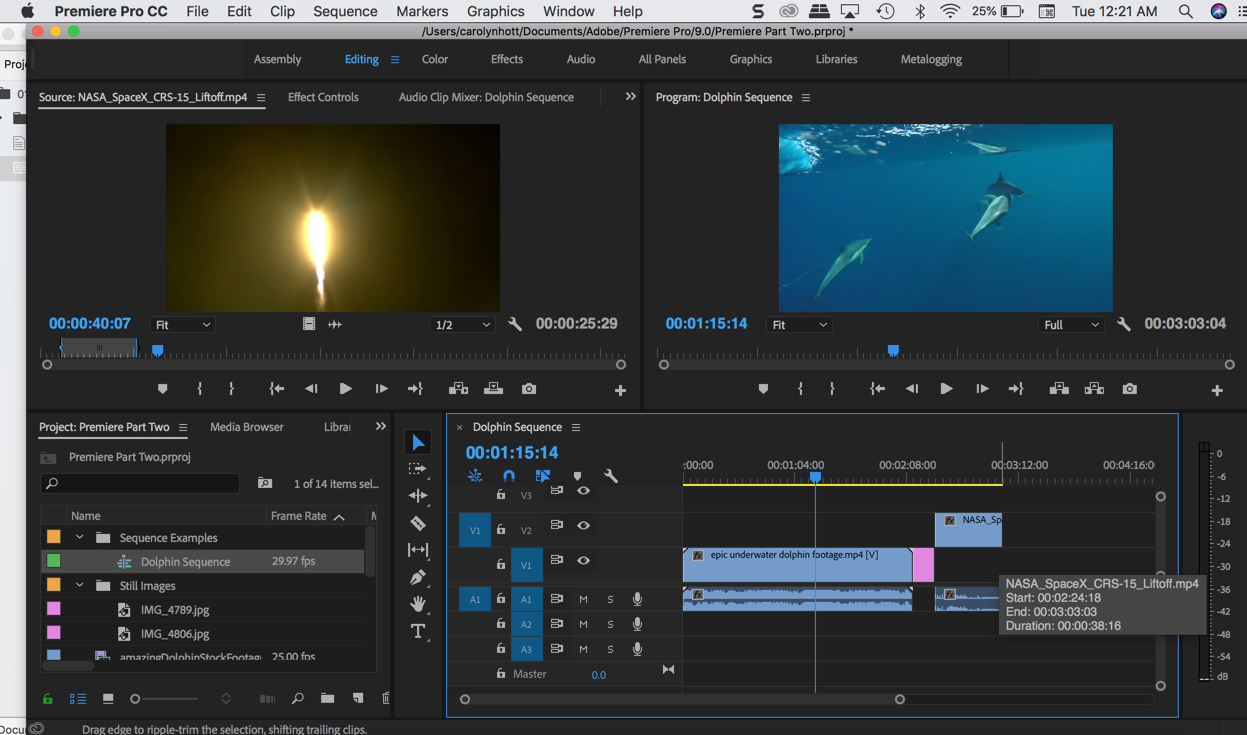
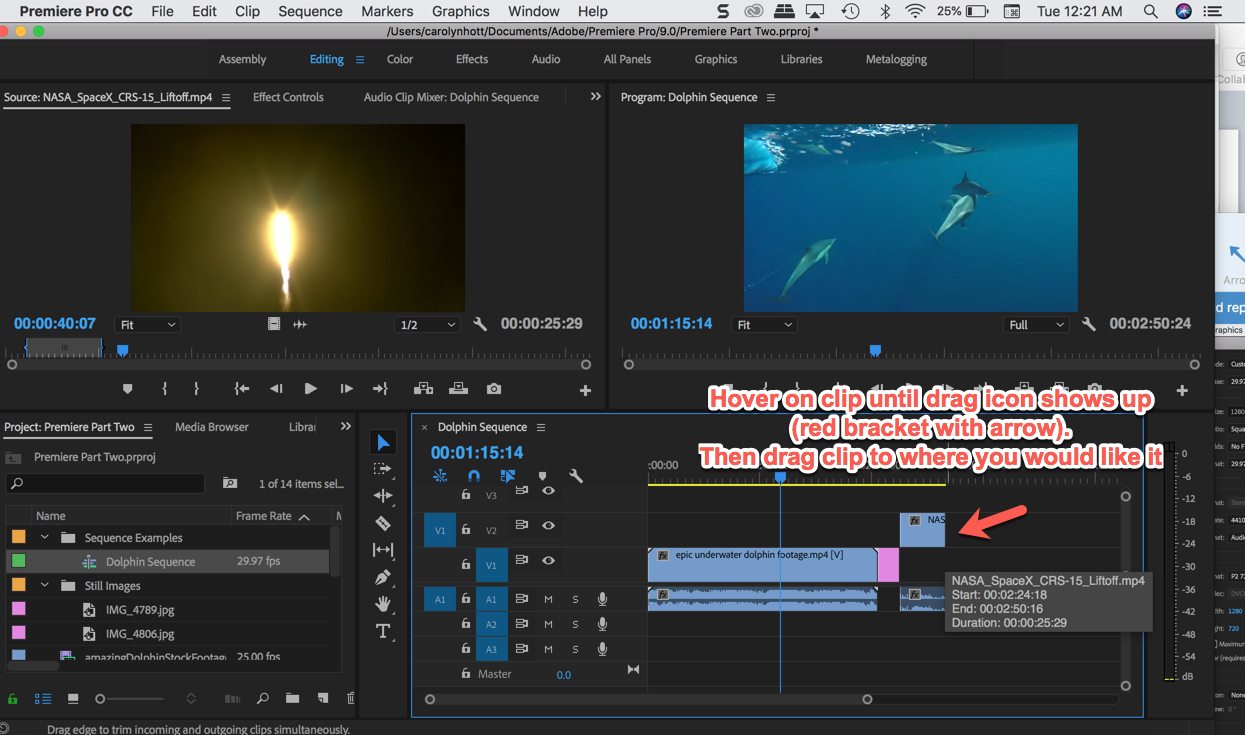
premiere tutorial update

diff --git a/tutorials/01b_PremiereContinued/README.md b/tutorials/01b_PremiereContinued/README.md
@@ -90,17 +90,28 @@ Timeline Tips:
 * Move the image to the screen location you would like in your overall video
 
 # ▼△▼△▼ Replace a Clip
-++ in progress++
+**++ in progress++**
 
- dragging and holding option key
+![Replacing Clips](images/Premiere_29.png)
 
- if you want it to ripple = option delete
+ * To replace one clip with another, drag your new clip from the Source Monitor while holding Option/Alt key
+
+* If you want it to ripple = option delete
 delete an area
--can use razor tool but in and outs is better ... use colon and apostrophe - this will only lift/extract the active tracks
+
+* You can use razor tool but marking in and outs is better ... use colon and apostrophe - this will only lift/extract the active tracks.
+
+![Replacing Clips](images/Premiere_30.png)
+
+* Prepare the clip you would like to insert in the middle of a clip in your timeline in the Source Monitor (mark in/out if desired).
+
+* Position your playhead in the timeline where you would like that clip to be inserted.
+
+* Select the Source Monitor by clicking on it so it is highlighted, then press **,** (the comma key), and the clip will insert where the playhead is positioned.
  
 
 # ▼△▼△▼ Trimming a Clip
-++ in progress++
+**++ in progress++**
 
 - ripple edit tool 'b' or command keyboard modifier
 - e = shortcut for extended edit - instead of dragging clip to cursor.
@@ -121,7 +132,7 @@ if you want to edit just audio or video in synced clips, hold down option to jus
 # ▼△▼△▼ Audio Adjustments
 -->[links to more tutorials here](https://github.com/art75/SJSU-art75/tree/master/tutorials/01_Premiere#-working-with-audio)
 
-++ in progress++
+**++ in progress++**
 
 - difference between gain and volume
 - to change audio configurations for source audio, right click in project window and go to modify -> audio channels
@@ -134,9 +145,9 @@ if you want to edit just audio or video in synced clips, hold down option to jus
 
 # ▼△▼△▼ Expanded Color Correction
 
-++ in progress++
+Best Color Correction Workflow: First, correct individual shots, and then move from shot to shot checking and adjusting consistency.
 
-workflow: correct individual shots and then shot to shot consistency
+**++ in progress++**
 
 Basic tools
 
